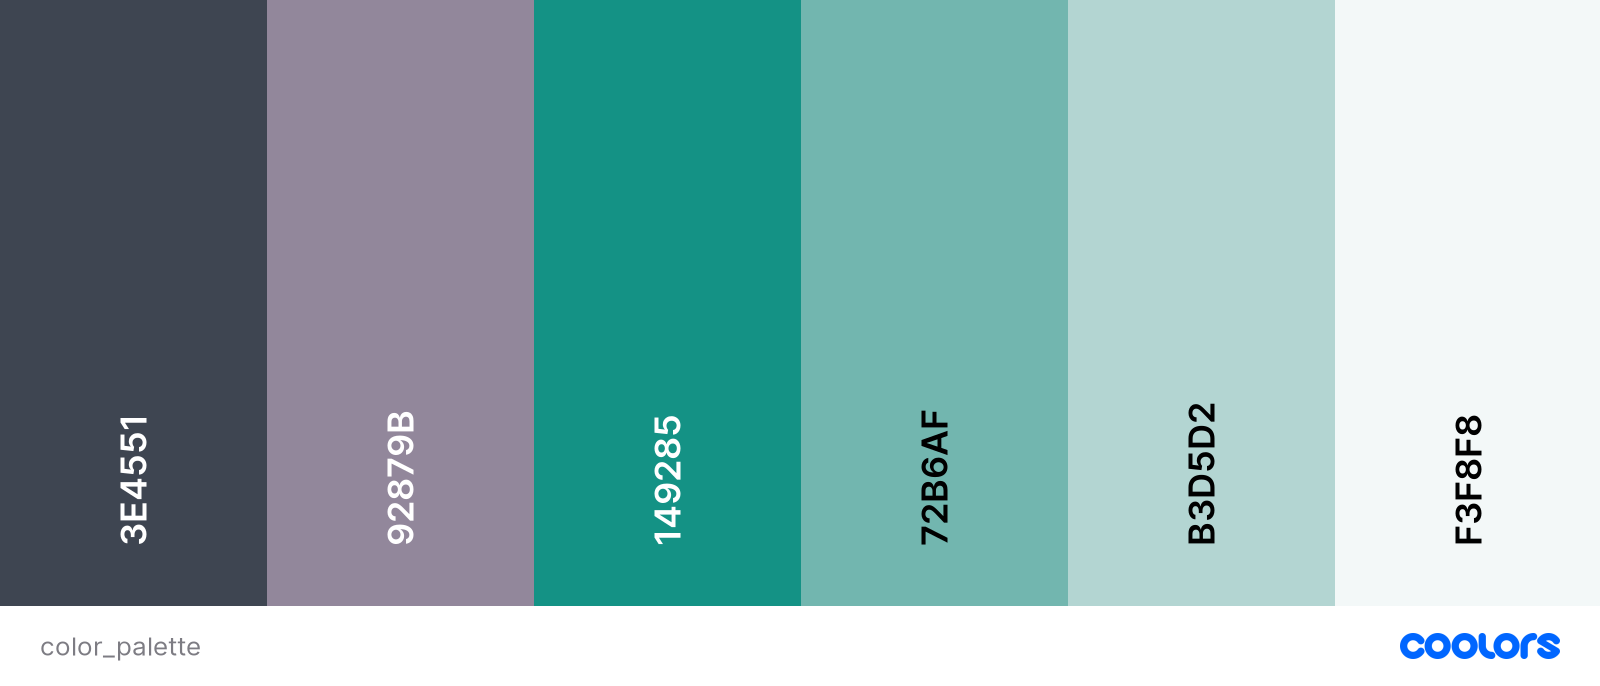
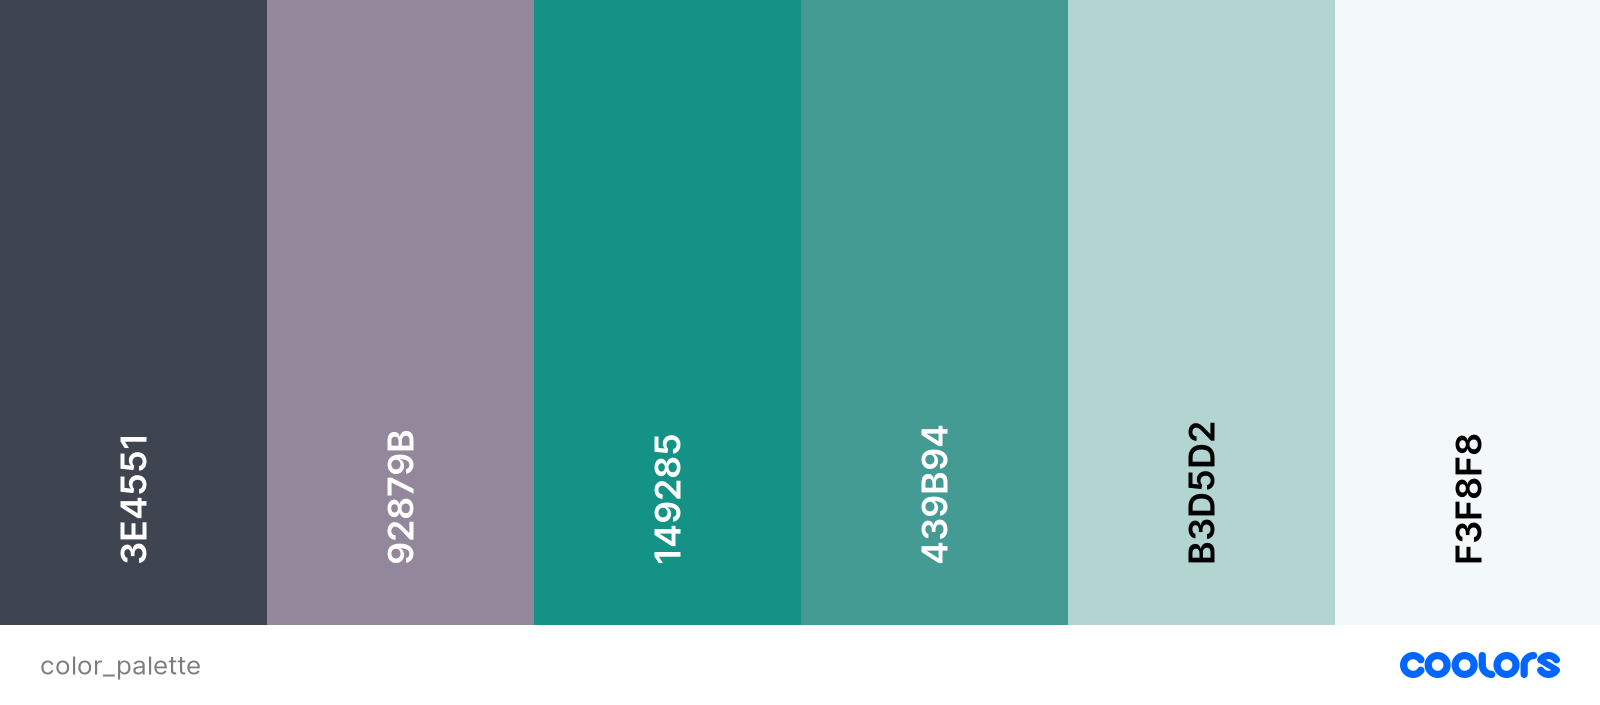
Add fonts section and expand on color scheme

diff --git a/README.md b/README.md
@@ -96,9 +96,33 @@ ZIP: 42424 <br>
 ## Design
 ### Color Scheme
 
+Delicate and soothing color palette will be chosen and the balance with calmer, contemporary mood for the audience will be tried to get achieved. Below colors will be used for the website:
+
+- Cultured (#F3F8F8)
+- Opal (#B3D5D2)
+- Polished Pine (#439B94) 
+- Illuminating Emarald (#149285)
+- Heliotrope Gray (#92879B)
+- Charcoal (#3E4551)
+
 <h2 align="center"><img src="readme-files/general/color_palette.png" alt="color palette" target="_blank" width="70%" height="70%"></h2>
 
 [Coolors](https://coolors.co/) was used to create a color palette.
+
+Shades of green color in particular Polished Pine color (#439B94) will be selected as primary color because it is the color of nature and health. Green is a perfect choice for outdoor brand and eco-friendliness and sustainability that TRΛIL RUN ΛDVENTURES promotes. 
+
+White will be primarily used as the background color because it represents reverence, purity, and innocence. This association calms people and influences their brain activity in a very positive way.
+
+Charcoal (#3E4551) will be used only for footer section and it combines great with the green colors on the website.
+
+## Fonts
+
+- Two fonts will be used throughout the project, **Roboto** and **Lato**. Both will be used with ``sans-serif`` font as a fallback.
+**Roboto** will be used for the main headings and paragraph sections and **Roboto** will be used for the subheadings.
+
+- These fonts pair very well together and make the website appear both prestigious and contemporary. This font combination looks elegant and highly readable.
+
+- Fonts were imported from [Google Fonts](https://fonts.google.com/).
 
 
 ## Page Structure
